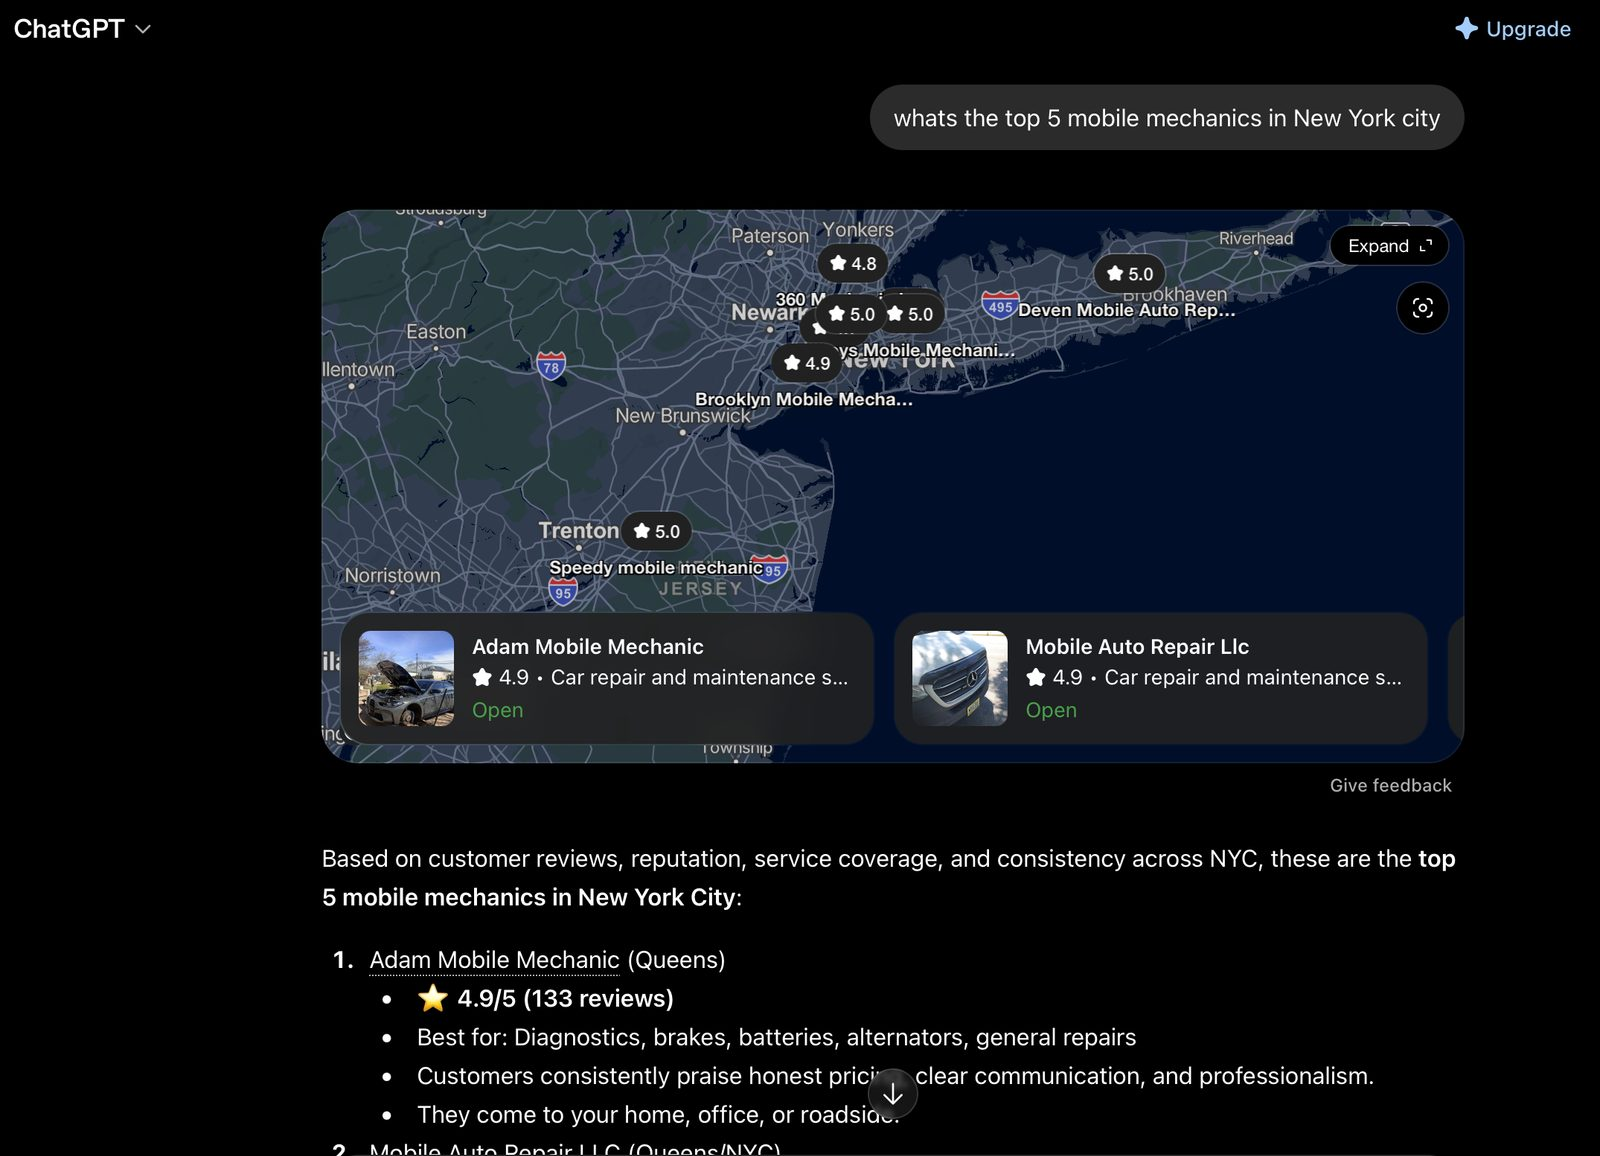
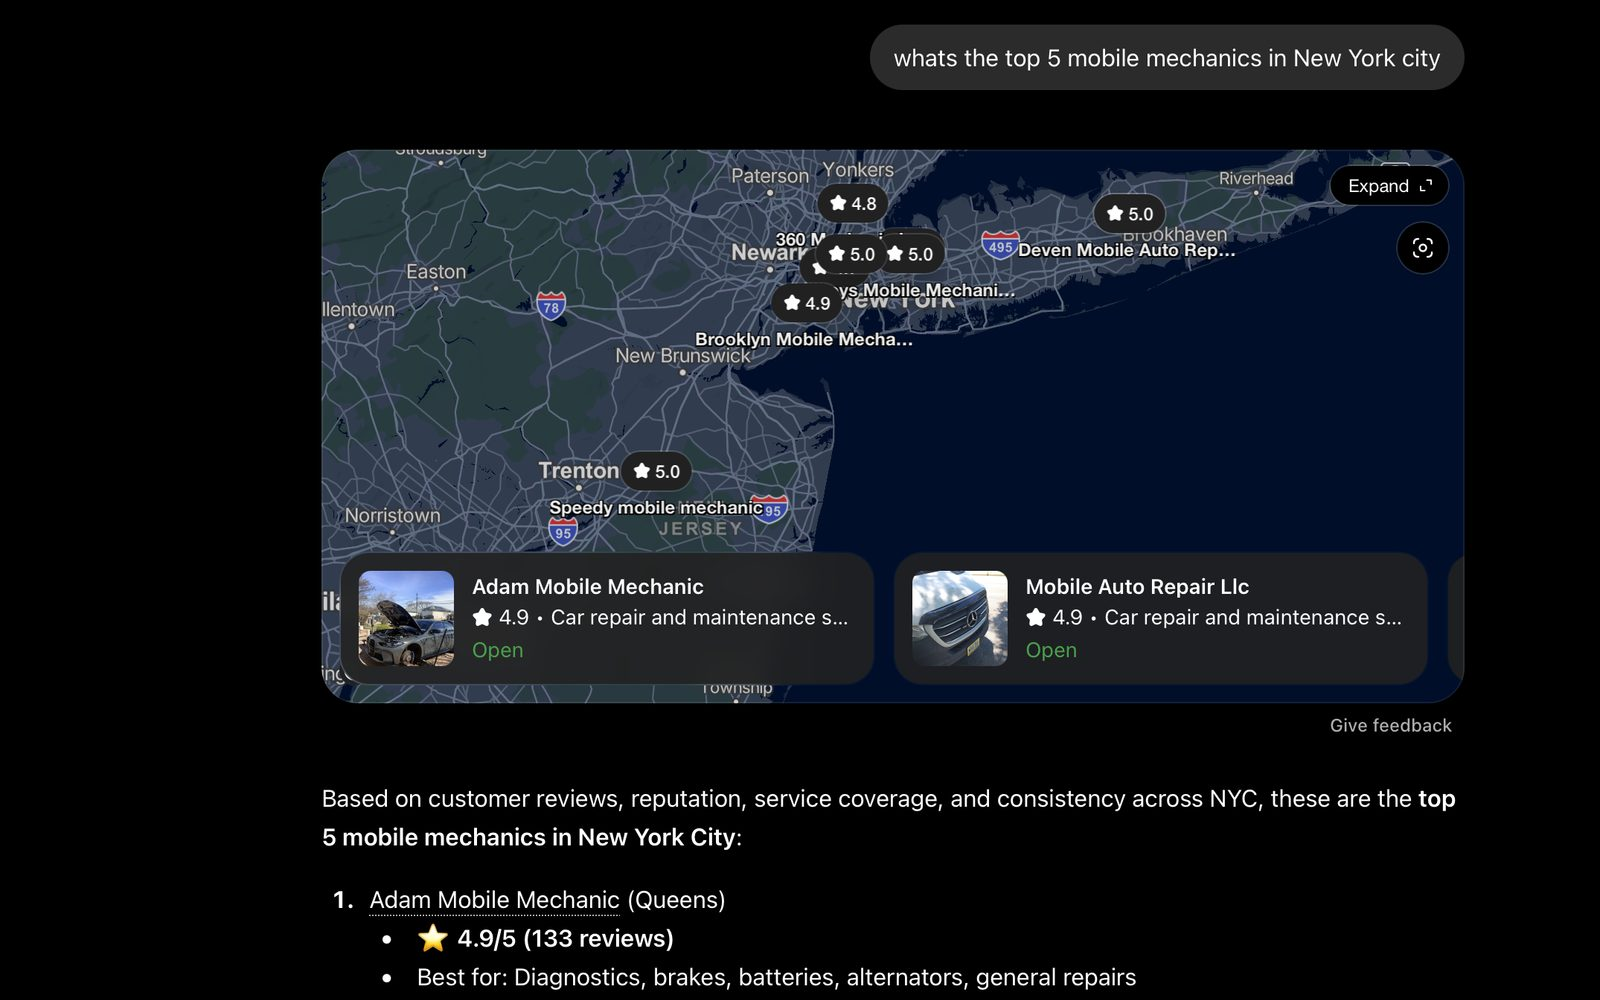
content: date the mechanic reviews quote, crop the ChatGPT frames to 1600x1000 (task 11 fix round 1)
Drops the undated 147-review figure from the quote and records conversion.png's
provenance; "keyed off one config file" replaces "became" in the lead, the meta
description and delta 6; both ChatGPT screenshots cropped 60px off the top and
the rest off the bottom so the typed prompt survives; Lighthouse 1600x841 waived
in the config header; two copy precisions and the packship-shaped anchor table.

Claude-Session: https://claude.ai/code/session_01MkLFheAHfmQQk24b2tTwX8

Changed region(s): [[0.1875, 0.0, 1.0, 1.0], [0.0, 0.0, 0.0938, 0.031]]

diff --git a/src/components/site/work/new-york-mobile-mechanic/content.ts b/src/components/site/work/new-york-mobile-mechanic/content.ts
@@ -47,15 +47,22 @@
  *                               `mechanicseo.png` stays on disk for
  *                               /services/web-development/ and is no longer
  *                               placed on this page.
- *   new-york-mobile-mechanic-chatgpt-nyc.jpg     1600x1156  and
- *   new-york-mobile-mechanic-chatgpt-queens.jpg  1600x1174  the user's two
+ *   new-york-mobile-mechanic-chatgpt-nyc.jpg     1600x1000  and
+ *   new-york-mobile-mechanic-chatgpt-queens.jpg  1600x1000  the user's two
  *                               ChatGPT screenshots (2026-07-28, 2026-08-07),
- *                               resized whole. Paired in one
+ *                               resized to 1600 wide and cropped 60px off the
+ *                               top (the ChatGPT chrome) and the rest off the
+ *                               bottom, so the typed prompt, the map card and
+ *                               the "1. Adam Mobile Mechanic" line all
+ *                               survive. Paired in one
  *                               `BlockMediaDoubleQuote` because they are the
  *                               same kind of artefact ten days apart.
  *   conversion.png    1179x2203 the live /reviews page on a phone (4.9, 147
- *                               reviews, the fixed Call / Text Now bar). The
- *                               only portrait asset on the site; the `small`
+ *                               reviews, the fixed Call / Text Now bar),
+ *                               committed 2026-09-02 in 17b2b8c; its capture
+ *                               date is not recorded, so the quote under it
+ *                               names no figure. The only portrait asset on
+ *                               the site; the `small`
  *                               slot caps it at ~990px tall, whereas
  *                               `BlockImageFull` would render it 2,690px tall
  *                               at 1440. Not re-captured: a local boot has no
@@ -110,19 +117,23 @@ export const PROJECT_CANONICAL = "/work/new-york-mobile-mechanic/";
  * repo measures field CWV. The Lighthouse score is what exists.
  */
 export const PROJECT_DESCRIPTION =
-  "A Next.js site for a 24/7 NYC mobile mechanic: 117 pages from one config file, a service-by-borough matrix, JSON-LD on every service page, Lighthouse at 100.";
+  "A Next.js site for a 24/7 NYC mobile mechanic: 117 pages keyed off one config file, a service-by-borough matrix, JSON-LD on every service page, Lighthouse at 100.";
 export const PROJECT_OG_IMAGE = `${IMAGES}/nymm.jpg`;
 
 /**
  * Header. `lead` is the project's OUTCOME, not its brief: the brief is the
  * `BlockIntroDouble` statement below. 117 is the sitemap's URL count
- * (10 static + 11 services + 30 topics + 17 areas + 4 posts + 45 combos), and
- * "one config file" is `content/site.config.ts`, which the sitemap, both
- * llms.txt routes and every page read.
+ * (10 static + 11 services + 30 topics + 17 areas + 4 posts + 45 combos).
+ * "Keyed off one config file": `content/site.config.ts` supplies the services,
+ * areas and static routes that every URL is built from, and the sitemap and
+ * both llms.txt routes read it; the CONTENT of the topic, combo and area pages
+ * lives in `lib/service-topics.ts`, `lib/service-area-combos.ts`,
+ * `lib/area-content.ts` and four MDX files, which is why the sentence says
+ * "keyed off" and not "became".
  */
 export const PROJECT_HEADER: BlockHeaderProjectsProps = {
   title: "New York Mobile Mechanic",
-  lead: "One config file became 117 pages, every service page an answer to a search a stranded driver types, and the phone one tap away on all of them.",
+  lead: "117 pages keyed off one config file, every service page an answer to a search a stranded driver types, and the phone one tap away on all of them.",
   location: "2026 · Web",
   service: "Web Development",
   breadcrumbLabel: "Work",
@@ -199,7 +210,7 @@ export const PROJECT_TOPICS: BlockWysiwygProps = {
   body: [
     {
       type: "paragraph",
-      text: "The four blog posts earned 31 impressions and no clicks in the 90 days to 17 August 2026. The eleven service pages earned 1,918 impressions and 10 clicks from positions 24 to 58. Google was showing them on pages three to six and ten people clicked, because a 560-word service page does not answer the question a driver typed.",
+      text: "The four blog posts earned 31 impressions and no clicks in the 90 days to 17 August 2026. The eleven service pages earned 1,918 impressions and 10 clicks from positions in the mid-twenties to the high fifties. Google was showing them on pages three to six and ten people clicked, because a 560-word service page does not answer the question a driver typed.",
     },
     {
       type: "paragraph",
@@ -229,7 +240,7 @@ export const PROJECT_COPY_TEST: BlockWysiwygProps = {
   body: [
     {
       type: "paragraph",
-      text: "An outside reviewer said the copy read as AI-generated. The rewrite pinned eight patterns in a test, from “peace of mind” and “no surprises” down to the em dash. The test walks every service description, FAQ, process step, borough paragraph, topic section, table cell and the raw text of every blog post. Customer reviews are the one thing it skips, because they are quoted verbatim. When two “no surprises” lines sat live for six weeks in posts the test had not covered, the posts were added to it.",
+      text: "An outside reviewer said the copy read as AI-generated. The rewrite pinned eight patterns in a test, from “peace of mind” and “no surprises” down to the em dash. The test walks every service description, FAQ, process step, borough paragraph, topic section, table cell and the raw text of every blog post. Customer reviews are excluded on purpose, because they are quoted verbatim. When two “no surprises” lines sat live for six weeks in posts the test had not covered, the posts were added to it.",
     },
   ],
 };
@@ -312,7 +323,7 @@ export const PROJECT_MEDIA_LIVE: BlockMediaDoubleQuoteProps = {
     width: 1179,
     height: 2203,
   },
-  quote: "4.9 from 147 Google reviews, and the phone one tap away.",
+  quote: "The reviews page, and the phone one tap away.",
 };
 
 /**
@@ -343,14 +354,14 @@ export const PROJECT_MEDIA_AI: BlockMediaDoubleQuoteProps = {
     src: `${IMAGES}/new-york-mobile-mechanic-chatgpt-nyc.jpg`,
     alt: "ChatGPT on 28 July 2026, asked for the top 5 mobile mechanics in New York City: a map card for Adam Mobile Mechanic at 4.9, and the business listed first in the numbered answer with 133 reviews.",
     width: 1600,
-    height: 1156,
+    height: 1000,
   },
   small: {
     type: "image",
     src: `${IMAGES}/new-york-mobile-mechanic-chatgpt-queens.jpg`,
     alt: "ChatGPT on 7 August 2026, asked for the best mobile mechanic in Queens: the map card at 4.9 and the business listed first in the answer.",
     width: 1600,
-    height: 1174,
+    height: 1000,
   },
   quote: "Asked twice, ten days apart, the business came first both times.",
 };

diff --git a/docs/research/case-studies/new-york-mobile-mechanic.md b/docs/research/case-studies/new-york-mobile-mechanic.md
@@ -300,19 +300,21 @@ shot. Nothing else: the site is public and names its own business.
 | --- | --- | --- |
 | `new-york-mobile-mechanic-combo.jpg` (1600x1000, runner) | `/service-areas/queens/brake-jobs` | "Nine services crossed with five boroughs make 45 pages … each one composed from a service angle and a borough paragraph" — the H1 `Mobile Brake Repair in Queens, NY`, the service's "near me" intro, and the two crossed sections ("Why get brake repair done on-site in Queens", "Mobile mechanic service in Queens") |
 | `new-york-mobile-mechanic-topic.jpg` (1600x1000, runner) | `/services/starter-alternator/alternator-replacement` | "thirty pages that each take one question … with its own price chip and the note scoping what the price covers" — `Diagnosis from $95`, the answer-first lead, the section headings |
-| `new-york-mobile-mechanic-lighthouse.jpg` (1600x841, from the 2026-07-09 screenshot) | `~/Desktop/NYMM Results/Screenshot 2026-07-09 at 2.35.19 PM.png`, resized whole | "Lighthouse scored the home page 100 for performance, accessibility, best practices and SEO, and 3 of 3 for agentic browsing" |
-| `new-york-mobile-mechanic-chatgpt-nyc.jpg` (1600x1156, from the 2026-07-28 screenshot) | `…/Screenshot 2026-07-28 at 3.54.30 PM.png`, resized whole | "asked for the top five mobile mechanics in New York City, ChatGPT listed the business first" |
-| `new-york-mobile-mechanic-chatgpt-queens.jpg` (1600x1174, from the 2026-08-07 screenshot) | `…/Screenshot 2026-08-07 at 5.17.18 PM.png`, resized whole | "asked for the best mobile mechanic in Queens ten days later, it did the same" |
+| `new-york-mobile-mechanic-lighthouse.jpg` (1600x841, from the 2026-07-09 screenshot) | `~/Desktop/NYMM Results/Screenshot 2026-07-09 at 2.35.19 PM.png`, 2556x1344, resized whole; cannot be cropped up to 1000 tall, waived by the controller (review round 1) | "Lighthouse scored the home page 100 for performance, accessibility, best practices and SEO, and 3 of 3 for agentic browsing" |
+| `new-york-mobile-mechanic-chatgpt-nyc.jpg` (1600x1000, from the 2026-07-28 screenshot) | `…/Screenshot 2026-07-28 at 3.54.30 PM.png`, 2150x1554, resized to 1600x1156 then cropped to y 60..1060 (60px off the top, 96px off the bottom); the prompt, the 4.9 card, "1. Adam Mobile Mechanic" and "4.9/5 (133 reviews)" all survive | "asked for the top five mobile mechanics in New York City, ChatGPT listed the business first" |
+| `new-york-mobile-mechanic-chatgpt-queens.jpg` (1600x1000, from the 2026-08-07 screenshot) | `…/Screenshot 2026-08-07 at 5.17.18 PM.png`, 2180x1600, resized to 1600x1174 then cropped to y 60..1060 (60px off the top, 114px off the bottom); the prompt, the 4.9 card and "1. Adam Mobile Mechanic" survive; the Reddit line (y≈1127) does not, so the copy's Reddit mention is sourced to the original file, not this frame | "asked for the best mobile mechanic in Queens ten days later, it did the same" |
 | `nymm.jpg` (frozen cover, 1200x750) | NOT re-captured | Shared by `/`, `/work/`, `/process/` and `/services/web-development/` (twice) with alt "The New York Mobile Mechanic home page"; captured from the LIVE site on 2026-09-07 with the live `158+` dial. A local re-capture would show `144+`. The header renders it under the title, so the hero, the four dials and the two call buttons are the page's opening image. |
 | `mechanicseo.png` (frozen, 512x265) | NOT re-captured; no longer placed on this page | The same Lighthouse report, downscaled. It stays on disk for `/services/web-development/` (alt "…scoring 100 for performance and accessibility"). This page uses the 1600-wide version above instead, so the numbers are legible. |
-| `conversion.png` (frozen, 1179x2203) | NOT re-captured | The `/reviews` page on a phone from the live site: `4.9`, `147 Google reviews`, two review cards, and the fixed `Call` / `Text Now` bar. Evidence for the live-rating sentence AND the one-tap-away sentence. Only this page references it. |
+| `conversion.png` (frozen, 1179x2203) | NOT re-captured. Provenance: committed to NewNeura on 2026-09-02 in `17b2b8c` ("Port neuragul.com onto the cloned studio layout"); a capture of the live `/reviews` page on a phone, capture date not recorded; it shows the post-rebrand `ADAM` wordmark, so it post-dates the client's hero rebuild. | `4.9`, `147 Google reviews` (the live count on its undated capture day; the cover's `158+` is 2026-09-07 and ChatGPT's `133` is 2026-07-28, so no figure from it is quoted on the page), two review cards, and the fixed `Call` / `Text Now` bar. Evidence for the fixed-bar sentence. Only this page references it. |
 
 **The Desktop-derived images are not runner shots.** `capture-case-study-shots.mjs` iterates
 every entry in a slug's config and deletes the destination of any shot that fails, so a
 non-URL entry cannot sit in the config beside real routes without breaking (and destroying)
-the run. The three are therefore produced by a scratch script (`$SCRATCH/nymm-resize.mjs`,
-reproduced in task-11-report.md) with `sharp` from NewNeura's own `node_modules`, resized
-whole with no crop and no edit, and documented in the config's header. `check-assets.mjs`
+the run. The three are therefore produced by scratch scripts (`$SCRATCH/nymm-resize.mjs`,
+`$SCRATCH/nymm-crop.mjs`, both reproduced in task-11-report.md) with `sharp` from NewNeura's
+own `node_modules`: the Lighthouse report resized whole, the two ChatGPT frames resized then
+cropped to 1600x1000 as the rows above record. Nothing inside any frame is edited. The crop
+and the Lighthouse waiver are the controller's review-round-1 rulings. `check-assets.mjs`
 still asserts, for each, that the file exists, that its declared width/height match the
 pixels, and that its alt is non-empty; only `minBytes` is unchecked for them.
 
@@ -356,7 +358,7 @@ five boroughs" (intent, not a ranking claim); `:212`, `:341` and the other cover
 
 ### Other files
 
-6. `{file: "public/llms.txt", line: 29, anchor: "A local SEO site for a 24/7 mobile mechanic — a landing page for every service crossed with every borough, schema on every route, Core Web Vitals in the green.", replacement: "A Next.js site for a 24/7 mobile mechanic: 117 pages generated from one config file, a service-by-borough matrix of forty-five pages plus thirty single-question pages, JSON-LD on every one of them, Lighthouse at 100 across all four categories.", reason: "(b) (c); llms.txt is orchestrator-owned"}`
+6. `{file: "public/llms.txt", line: 29, anchor: "A local SEO site for a 24/7 mobile mechanic — a landing page for every service crossed with every borough, schema on every route, Core Web Vitals in the green.", replacement: "A Next.js site for a 24/7 mobile mechanic: 117 pages keyed off one config file, a service-by-borough matrix of forty-five pages plus thirty single-question pages, JSON-LD on every one of them, Lighthouse at 100 across all four categories.", reason: "(b) (c); llms.txt is orchestrator-owned"}`
 7. `{file: "public/llms.txt", line: 44, anchor: "The stack is TypeScript, Next.js, React, Tailwind CSS and Framer Motion, with Shopify and custom Liquid where a storefront calls for it, and Python where a pipeline does.", replacement: "The stack is TypeScript, Next.js, React, Tailwind CSS and GSAP, with Shopify and custom Liquid where a storefront calls for it, and Python where a pipeline does.", reason: "(a); mirrors delta 4"}`
 
 **Notes for the controller (no anchor, nothing to apply):** `public/site/videos/nymm-hero.mp4`
@@ -371,15 +373,18 @@ home/work/process/web-development alts "The New York Mobile Mechanic home page" 
 
 Checked at `62402fd` on 2026-09-11 with `grep -cF -- "<anchor>" <file>`:
 
-| # | File | `grep -cF` |
-| --- | --- | --- |
-| 1 | `src/components/site/services/web-development/content.ts` | 1 |
-| 2 | `src/components/site/services/web-development/content.ts` | 1 |
-| 3 | `src/components/site/services/web-development/content.ts` | 1 |
-| 4 | `src/components/site/services/web-development/content.ts` | 1 |
-| 5 | `src/components/site/services/web-development/content.ts` | 1 |
-| 6 | `public/llms.txt` | 1 |
-| 7 | `public/llms.txt` | 1 |
+All seven are single-line anchors. Every anchor occurs exactly once and at the cited line.
+Re-run the same check before applying if any of these files has moved on.
+
+| Delta | File | Lines | Check | Occurrences | At cited line |
+| --- | --- | --- | --- | --- | --- |
+| 1 | `services/web-development/content.ts` | 114 | single-line `grep -cF` | 1 | yes |
+| 2 | `services/web-development/content.ts` | 166 | single-line `grep -cF` | 1 | yes |
+| 3 | `services/web-development/content.ts` | 209 | single-line `grep -cF` | 1 | yes |
+| 4 | `services/web-development/content.ts` | 259 | single-line `grep -cF` | 1 | yes |
+| 5 | `services/web-development/content.ts` | 293 | single-line `grep -cF` | 1 | yes |
+| 6 | `public/llms.txt` | 29 | single-line `grep -cF` | 1 | yes |
+| 7 | `public/llms.txt` | 44 | single-line `grep -cF` | 1 | yes |
 
 Deltas 3, 4 and 7 are the only three occurrences of "Framer Motion" outside this page
 (`grep -rn "Framer Motion" src/ public/llms.txt` → 3 after this task's rewrite).
